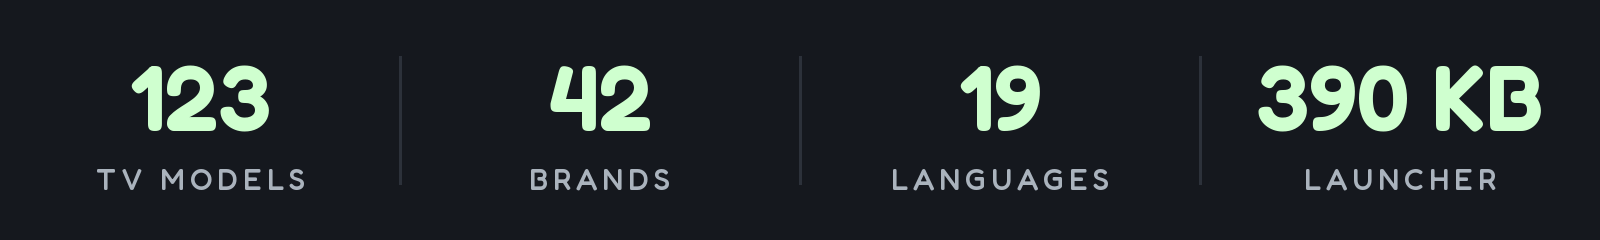
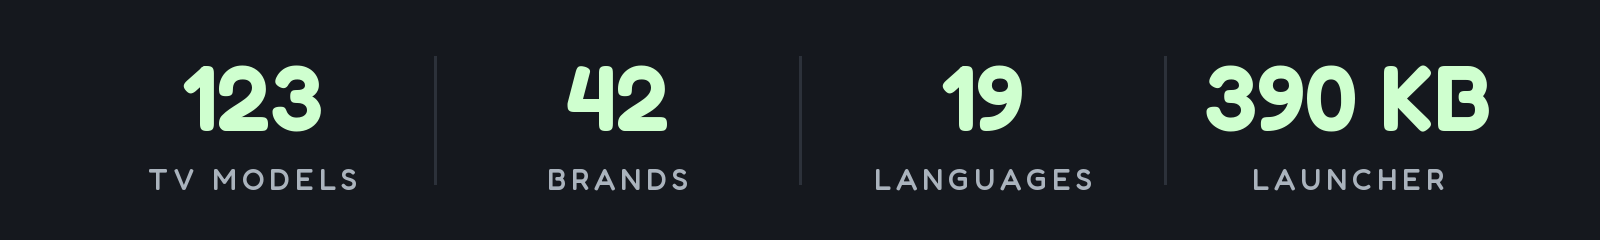
README: one card for stats, Featured in and the before/after (Wi-Fi name blurred); intro line moves to How it works

diff --git a/tools/readme_card.py b/tools/readme_card.py
@@ -1,0 +1,43 @@
+"""Stacks the README stat strip, the Featured in panel and the before/after TVs into one card (docs/card.png).
+
+Run tools/readme_stats.py and tools/readme_featured.py first, then:
+python3 tools/readme_card.py Fredoka.ttf docs/card.png
+"""
+import sys
+from PIL import Image, ImageDraw, ImageFilter, ImageFont
+FONT, OUT = sys.argv[1], sys.argv[2]
+BG, LINE, DIM, GREEN = "#15181e", "#2c313a", "#aab3bd", "#cfffcf"
+W = 1600
+def f(size, wt):
+    x = ImageFont.truetype(FONT, size); x.set_variation_by_axes([wt]); return x
+def spaced(d, cx, y, t, font, sp, fill):
+    w = sum(d.textlength(c, font=font) for c in t) + sp * (len(t) - 1); x = cx - w / 2
+    for c in t: d.text((x, y), c, font=font, fill=fill); x += d.textlength(c, font=font) + sp
+
+# the TV screens, cropped to the bezel; the Wi-Fi name on the after shot is blurred
+before = Image.open("docs/stock-home.jpg").convert("RGB").crop((130, 216, 1317, 864))
+after = Image.open("docs/new-home.jpg").convert("RGB")
+box = (1150, 236, 1240, 280); after.paste(after.crop(box).filter(ImageFilter.GaussianBlur(9)), box)
+after = after.crop((203, 138, 1467, 792))
+PAD, ARROW = 70, 90
+tw = (W - 2 * PAD - ARROW) // 2
+shots = [im.resize((tw, round(im.height * tw / im.width)), Image.LANCZOS) for im in (before, after)]
+th = max(s.height for s in shots)
+tv = Image.new("RGB", (W, 90 + th + 80), BG); d = ImageDraw.Draw(tv)
+lab = f(30, 500)
+for i, (s, t, c) in enumerate(zip(shots, ("BEFORE", "AFTER"), (DIM, GREEN))):
+    x = PAD + i * (tw + ARROW); y = 90 + (th - s.height) // 2
+    spaced(d, x + tw / 2, 34, t, lab, 8, c)
+    tv.paste(s, (x, y)); d.rectangle([x - 1, y - 1, x + s.width, y + s.height], outline=LINE, width=2)
+ax, ay = W / 2, 90 + th / 2
+d.line([(ax - 26, ay), (ax + 26, ay)], fill=GREEN, width=5)
+d.line([(ax + 8, ay - 16), (ax + 27, ay), (ax + 8, ay + 16)], fill=GREEN, width=5, joint="curve")
+
+parts = [Image.open("docs/stats.png").convert("RGB"), Image.open("docs/featured.png").convert("RGB"), tv]
+SEP = 24  # extra air on each side of a divider
+H = sum(p.height for p in parts) + 2 * SEP * (len(parts) - 1)
+card = Image.new("RGB", (W, H), BG); d = ImageDraw.Draw(card); y = 0
+for i, p in enumerate(parts):
+    if i: y += SEP; d.line([(PAD, y), (W - PAD, y)], fill=LINE, width=2); y += SEP
+    card.paste(p, (0, y)); y += p.height
+card.save(OUT, quality=88, optimize=True)

diff --git a/tools/readme_featured.py b/tools/readme_featured.py
@@ -1,14 +1,14 @@
-"""Renders the README 'Featured in' panel (docs/featured.png) in the banner's style.
+"""Renders the Featured in panel (docs/featured.png), the middle part of the README card.
 
 Update LOGOS / MORE, then: python3 tools/readme_featured.py Fredoka.ttf docs/featured.png
-Fredoka is the variable TTF from Google Fonts. Logos come from docs/press/."""
+and rebuild the card with tools/readme_card.py. Logos come from docs/press/."""
 import sys
 from PIL import Image, ImageDraw, ImageFont
 FONT, OUT = sys.argv[1], sys.argv[2]
 LOGOS = ["techcrunch", "mashable", "androidauthority", "xda", "flatpanelshd", "itsfoss", "phandroid", "gigazine",
          "xataka", "winfuture", "frandroid", "macitynet", "techaeris", "techpp", "thedailystar", "detikinet"]
 MORE = "+54 more  ·  70 articles from 21 countries"
-W, LH, GAP, ROWGAP, PAD = 1600, 54, 40, 36, 60
+W, LH, GAP, ROWGAP, PAD = 1600, 54, 40, 36, 80
 def f(size, wt):
     x = ImageFont.truetype(FONT, size); x.set_variation_by_axes([wt]); return x
 logos = []
@@ -32,8 +32,8 @@ for r in rows:
     x = (W - (sum(i.width for i in r) + GAP * (len(r) - 1))) / 2
     for im in r: img.alpha_composite(im, (round(x), y)); x += im.width + GAP
     y += LH + ROWGAP
-m = f(34, 500); w = d.textlength(MORE, font=m) + 56; x0 = (W - w) / 2; ty = y + 26
-d.text((x0, ty), MORE, font=m, fill="#cfffcf")
+m = f(32, 500); w = d.textlength(MORE, font=m) + 56; x0 = (W - w) / 2; ty = y + 26
+d.text((x0, ty), MORE, font=m, fill="#e6e9ee")  # soft white; green stays for numbers, AFTER and arrows
 ax, ay = x0 + w - 26, ty + 22  # arrow: Fredoka has no U+2192
 d.line([(ax - 12, ay), (ax + 12, ay)], fill="#cfffcf", width=4)
 d.line([(ax + 2, ay - 10), (ax + 13, ay), (ax + 2, ay + 10)], fill="#cfffcf", width=4, joint="curve")

diff --git a/tools/readme_stats.py b/tools/readme_stats.py
@@ -1,7 +1,7 @@
-"""Renders the README stat strip (docs/stats.png) in the banner's style.
+"""Renders the stat strip (docs/stats.png), the top part of the README card.
 
-Update STATS (and the README alt text), then: python3 tools/readme_stats.py Fredoka.ttf docs/stats.png
-Fredoka is the variable TTF from Google Fonts."""
+Update STATS, then: python3 tools/readme_stats.py Fredoka.ttf docs/stats.png
+and rebuild the card with tools/readme_card.py. Fredoka is the variable TTF from Google Fonts."""
 import sys
 from PIL import Image, ImageDraw, ImageFont
 FONT, OUT = sys.argv[1], sys.argv[2]
@@ -11,11 +11,12 @@ img = Image.new("RGB", (W, H), "#15181e"); d = ImageDraw.Draw(img)
 def f(size, wt):
     x = ImageFont.truetype(FONT, size); x.set_variation_by_axes([wt]); return x
 num, lab = f(92, 600), f(30, 500)
-col = W / len(STATS)
+PAD = 70
+col = (W - 2 * PAD) / len(STATS)
 for i, (n, l) in enumerate(STATS):
-    cx = col * i + col / 2
+    cx = PAD + col * i + col / 2
     w = d.textlength(n, font=num); d.text((cx - w / 2, 40), n, font=num, fill="#cfffcf")
     sp = 5; w = sum(d.textlength(c, font=lab) for c in l) + sp * (len(l) - 1); x = cx - w / 2
     for c in l: d.text((x, 160), c, font=lab, fill="#aab3bd"); x += d.textlength(c, font=lab) + sp
-    if i: d.line([(col * i, 56), (col * i, H - 56)], fill="#2c313a", width=3)
+    if i: d.line([(PAD + col * i, 56), (PAD + col * i, H - 56)], fill="#2c313a", width=3)
 img.save(OUT, optimize=True)

diff --git a/README.md b/README.md
@@ -1,5 +1,5 @@
 <p align="center">
-  <a href="https://cleanyour.tv"><img src="https://raw.githubusercontent.com/Gathin23/cleanyourtv/main/docs/banner.png" alt="CleanYourTV. Your TV, minus the ads." width="800"></a>
+  <a href="https://cleanyour.tv"><img src="https://raw.githubusercontent.com/Gathin23/cleanyourtv/main/docs/banner.png" alt="CleanYourTV. Your TV, minus the ads. Strip the bloatware from any Android TV or Google TV over Wi-Fi and replace the ad-filled home screen with a clean launcher that looks like an Apple TV. No root, no cable, nothing uninstalled, and a one-line restore." width="800"></a>
 </p>
 
 <p align="center">
@@ -13,20 +13,8 @@
 </p>
 
 <p align="center">
-  <img src="docs/stats.png" alt="123 TV models · 42 brands · 19 languages · 390 KB launcher" width="800">
+  <a href="docs/PRESS.md"><img src="docs/card.jpg" alt="123 TV models · 42 brands · 19 languages · 390 KB launcher. Featured in TechCrunch, Mashable, Android Authority, XDA, FlatpanelsHD, It's FOSS, Phandroid, GIGAZINE, Xataka, WinFuture, Frandroid, Macitynet, Techaeris, TechPP, The Daily Star, detikINET and 54 more: 70 articles from 21 countries. Before: stock Google TV home with a sponsored ad. After: the Clean Your TV launcher." width="800"></a>
 </p>
-
-<p align="center">
-  <a href="docs/PRESS.md"><img src="docs/featured.png" alt="Featured in TechCrunch, Mashable, Android Authority, XDA, FlatpanelsHD, It's FOSS, Phandroid, GIGAZINE, Xataka, WinFuture, Frandroid, Macitynet, Techaeris, TechPP, The Daily Star, detikINET and 54 more: 70 articles from 21 countries" width="800"></a>
-</p>
-
-<p align="center">
-  Strip the bloatware from any Android TV or Google TV over Wi-Fi, and replace the ad-filled home screen<br>
-  with a clean launcher that looks like an Apple TV. <b>No root, no cable, nothing uninstalled,<br>
-  and a one-line restore if you change your mind.</b>
-</p>
-
-![Before: stock Google TV home with a sponsored ad. After: the Clean Your TV launcher](docs/stock-vs-new-side.jpg)
 
 > Vibe coded my parents' TV this afternoon! It was showing a sponsored ad before you could even get
 > to Netflix. Gave Claude Code the model number, it found the TV on wifi, removed 25 Xiaomi packages
@@ -44,6 +32,8 @@ developer options, allow your computer once, and the rest is standard Android to
 2. **Disable** the manufacturer's telemetry, ad services, content rows and preloaded junk with
    `pm disable-user`. Nothing is uninstalled, so a restore script can undo every step.
 3. **Install** a small native launcher and make it the default home screen.
+
+**No root, no cable, nothing uninstalled, and a one-line restore if you change your mind.**
 
 The bloat differs by brand, so the prompt has your coding assistant discover it on your TV and ask
 before touching anything you might use.
